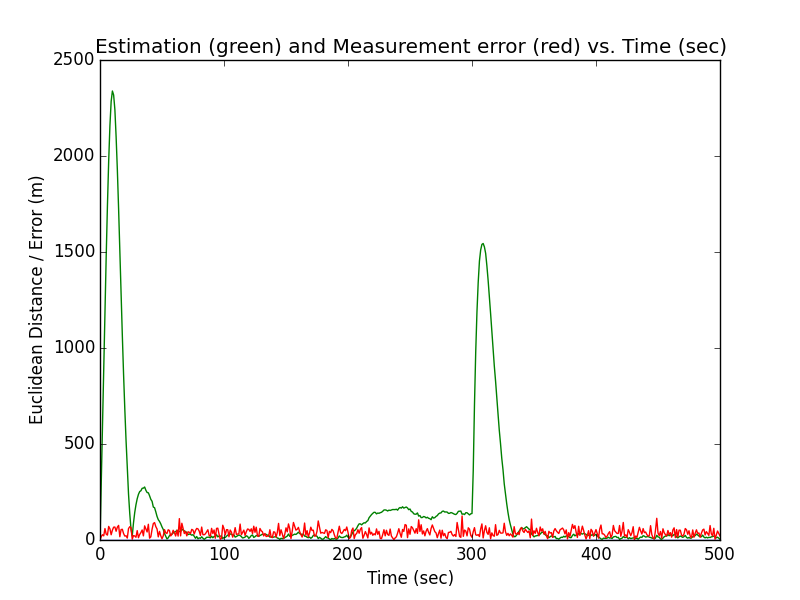
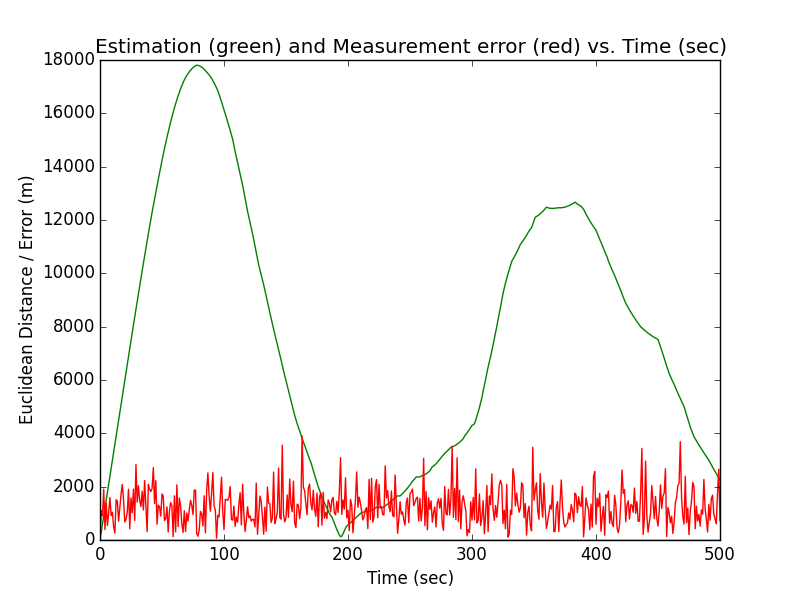
..

diff --git a/kalman.py b/kalman.py
@@ -17,6 +17,7 @@ def kalmanFilter(T=1, variance_w=.3*.3, accel_variance=.3*.3, variance_v=1000*10
 	my_z = np.empty(len(z), dtype=np.dtype(object))
 	#matrix to support prediction
 	D = np.matrix([[1., 1., 0., 0.], [0., 0., 1., 1.]])
+	Dprime = np.matrix([[1., 0., 0., 0.], [0., 0., 1., 0.]])
 	#A = 4x4
 	#B = 4x2
 	#C = 2x4
@@ -45,13 +46,15 @@ def kalmanFilter(T=1, variance_w=.3*.3, accel_variance=.3*.3, variance_v=1000*10
 	
 	#Q = np.identity(4)*variance_w
 	Q = B*(np.identity(2)*variance_w)*B.T
+	# print(Q)
+	# Q = B*B.T*variance_w
+	# print(Q)
 
 	#print(B*(np.identity(2)*variance_w)*B.T)
 
 	R = np.identity(2)*variance_v
 
-	accel_variance = .3
-	u = np.array([m.T for m in np.matrix(np.random.multivariate_normal([0,0], np.identity(2)*accel_variance, len(z)))])
+	w = np.array([m.T for m in np.matrix(np.random.multivariate_normal([0,0], np.identity(2)*accel_variance, len(z)))])
 	#u = np.array([np.matrix([0., 0.]).T for i in range(len(z))])
 
 	xhat = np.empty(len(z), dtype=np.dtype(object))
@@ -65,59 +68,92 @@ def kalmanFilter(T=1, variance_w=.3*.3, accel_variance=.3*.3, variance_v=1000*10
 
 	for k in range(1,len(z)):
 		# time update
-		assert(A.shape == (4,4))
-		#print(xhat[k-1].shape)
-		assert(xhat[k-1].shape == (4,1))
-		assert(B.shape == (4,2))
-		assert(u[k-1].shape == (2,1))
+		# assert(A.shape == (4,4))
+		# #print(xhat[k-1].shape)
+		# assert(xhat[k-1].shape == (4,1))
+		# assert(B.shape == (4,2))
+		# assert(u[k-1].shape == (2,1))
 
-		xhatminus[k] = A*xhat[k-1] + B*u[k-1]
+		xhatminus[k] = A*xhat[k-1] + B*w[k-1]
 
-		assert(xhatminus[k].shape == (4,1))
+		# assert(xhatminus[k].shape == (4,1))
 
-		#print(P[k-1].shape)
-		assert(P[k-1].shape == (4,4))
-		assert(Q.shape == (4,4))		
+		# #print(P[k-1].shape)
+		# assert(P[k-1].shape == (4,4))
+		# assert(Q.shape == (4,4))		
 
 		Pminus[k] = A*P[k-1]*A.T + Q
 
-		assert(Pminus[k].shape == (4,4))
+		# assert(Pminus[k].shape == (4,4))
 
 
 		# measurement update
 
-		assert(C.shape == (2,4))
-		assert(R.shape == (2,2))
+		# assert(C.shape == (2,4))
+		# assert(R.shape == (2,2))
 
 		K[k] = Pminus[k]*C.T * (C*Pminus[k]*C.T + R).getI()
 		#print(K[k])
 
-		assert(K[k].shape == (4,2))
+		# assert(K[k].shape == (4,2))
 
-		#print(z[k].shape)
-		assert(z[k].shape == (2,1))
+		# #print(z[k].shape)
+		# assert(z[k].shape == (2,1))
 
 		##implement imperfect sensor here
-		if random.random() > sensorProbability and k > 1:
-			# sensor broke, carry forward old data to make projections
-			#xhat[k] = xhatminus[k-1] + K[k-1]*(z[k-1]-C*xhatminus[k-1])
+		if random.random() > sensorProbability:
+			# if k > 2:
+			# 	# sensor broke, carry forward old data to make projections
+			# 	#xhat[k] = xhatminus[k-1] + K[k-1]*(z[k-1]-C*xhatminus[k-1])
 
-			#create z[k]
-			#predict z[k] based on previous location + previous trajectory + noise
+			# 	#create z[k]
+			# 	#predict z[k] based on previous location + previous trajectory + noise
 
-			previousStateVector = np.matrix([my_z[k-1][0,0], xhat[k-1][1,0], my_z[k-1][1,0], xhat[k-1][3,0]]).T
-			assert(previousStateVector.shape == (4,1))
-			assert(D.shape == (2,4))
-			estimatedPosition = (D*previousStateVector).T
-			assert(estimatedPosition.shape == (1,2))
+			# 	previousStateVector = np.matrix([my_z[k-1][0,0], my_z[k-1][0,0] - my_z[k-2][0,0], my_z[k-1][1,0], my_z[k-1][1,0] - my_z[k-2][1,0]]).T
+			# 	#previousStateVector = xhat[k-1]
+			# 	# assert(previousStateVector.shape == (4,1))
+			# 	# assert(D.shape == (2,4))
+			# 	estimatedPosition = (D*previousStateVector).T
+			# 	# assert(estimatedPosition.shape == (1,2))
 
-			#print(estimatedPosition)
-			#print(estimatedPosition.getA()[0])
+			# 	#print(estimatedPosition)
+			# 	#print(estimatedPosition.getA()[0])
 
 
-			my_z[k] = np.matrix(np.random.multivariate_normal(estimatedPosition.getA()[0], R)).T
-			assert(my_z[k].shape == (2,1))
+			# 	my_z[k] = np.matrix(np.random.multivariate_normal(estimatedPosition.getA()[0], R)).T
+			# 	# assert(my_z[k].shape == (2,1))
 
+			if k>1:
+
+				previousStateVector = np.matrix([my_z[k-1][0,0], xhat[k-1][1,0], my_z[k-1][1,0], xhat[k-1][3,0]]).T
+				#previousStateVector = xhat[k-1]
+				# assert(previousStateVector.shape == (4,1))
+				# assert(D.shape == (2,4))
+				estimatedPosition = (D*previousStateVector).T
+				# assert(estimatedPosition.shape == (1,2))
+
+				#print(estimatedPosition)
+				#print(estimatedPosition.getA()[0])
+
+
+				my_z[k] = np.matrix(np.random.multivariate_normal(estimatedPosition.getA()[0], R)).T
+				#my_z[k] = estimatedPosition.T
+				#my_z[k] = my_z[k-1]
+
+			else:
+
+				#previousStateVector = np.matrix([my_z[k-1][0,0], xhat[k-1][1,0], my_z[k-1][1,0], xhat[k-1][3,0]]).T
+				previousStateVector = xhat[k-1]
+				# assert(previousStateVector.shape == (4,1))
+				# assert(D.shape == (2,4))
+				estimatedPosition = (Dprime*previousStateVector).T
+				# assert(estimatedPosition.shape == (1,2))
+
+				#print(estimatedPosition)
+				#print(estimatedPosition.getA()[0])
+
+
+				my_z[k] = np.matrix(np.random.multivariate_normal(estimatedPosition.getA()[0], R)).T
 
 			#xhat[k] = xhatminus[k] + K[k]*(xhatminus[k]-C*xhatminus[k])
 		else:
@@ -127,11 +163,11 @@ def kalmanFilter(T=1, variance_w=.3*.3, accel_variance=.3*.3, variance_v=1000*10
 		#print(K[k]*(my_z[k]-C*xhatminus[k]))
 		xhat[k] = xhatminus[k] + K[k]*(my_z[k]-C*xhatminus[k])
 
-		assert(xhat[k].shape == (4,1))
+		# assert(xhat[k].shape == (4,1))
 
 		P[k] = (I-K[k]*C)*Pminus[k]
 
-		assert(P[k].shape == (4,4))
+		# assert(P[k].shape == (4,4))
 
 		#print(xhat[k])
 
@@ -247,8 +283,14 @@ if __name__ == "__main__":
 	# errorRatio = kalmanFilter(variance_v = 1, variance_w = 1, initialState = [0,-100,0,-100])
 
 	# 2e) try poor sensorProbability = 0.5, sensor fails so often that sensor coudn't track correctly unless very little change/ no change in position. Errors are magnified when x or y moves, and it takes a lot longer than before until tracking goes back on right track
-	errorRatio = kalmanFilter(sensorProbability = 0.5)
-	errorRatio = kalmanFilter(sensorProbability = 1.0)
+	# errorRatio = kalmanFilter(sensorProbability = 0.25)
+	# print(errorRatio)
+
+	errorRatio = 0
+	for i in range(100):
+		errorRatio += kalmanFilter(sensorProbability = 0.25, graph=False)
+	print(errorRatio/100.)
+	#errorRatio = kalmanFilter(sensorProbability = 1.0)
 
 
 	plt.show()
